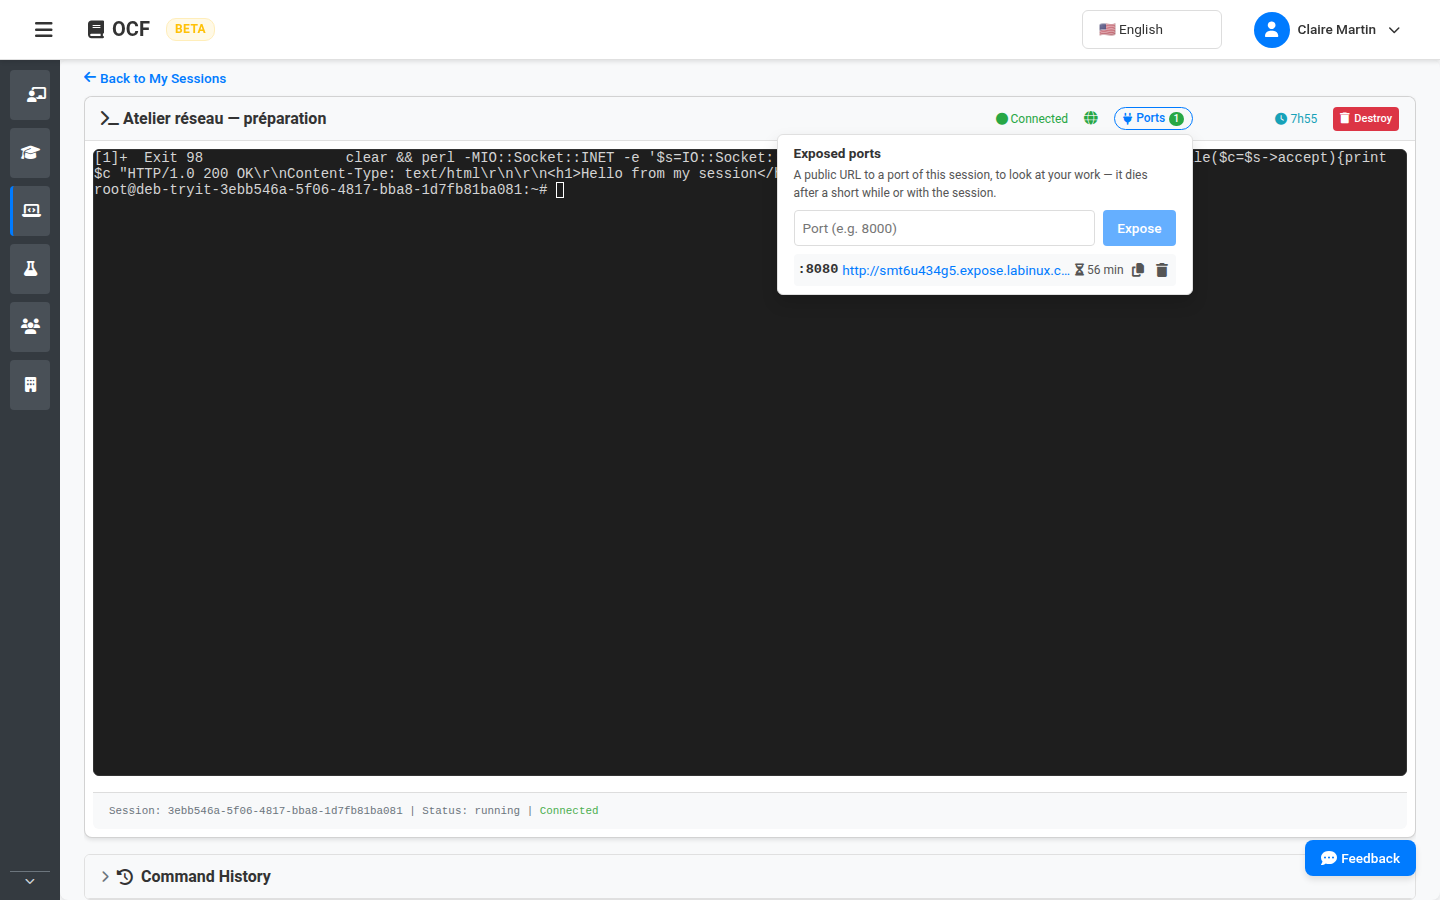
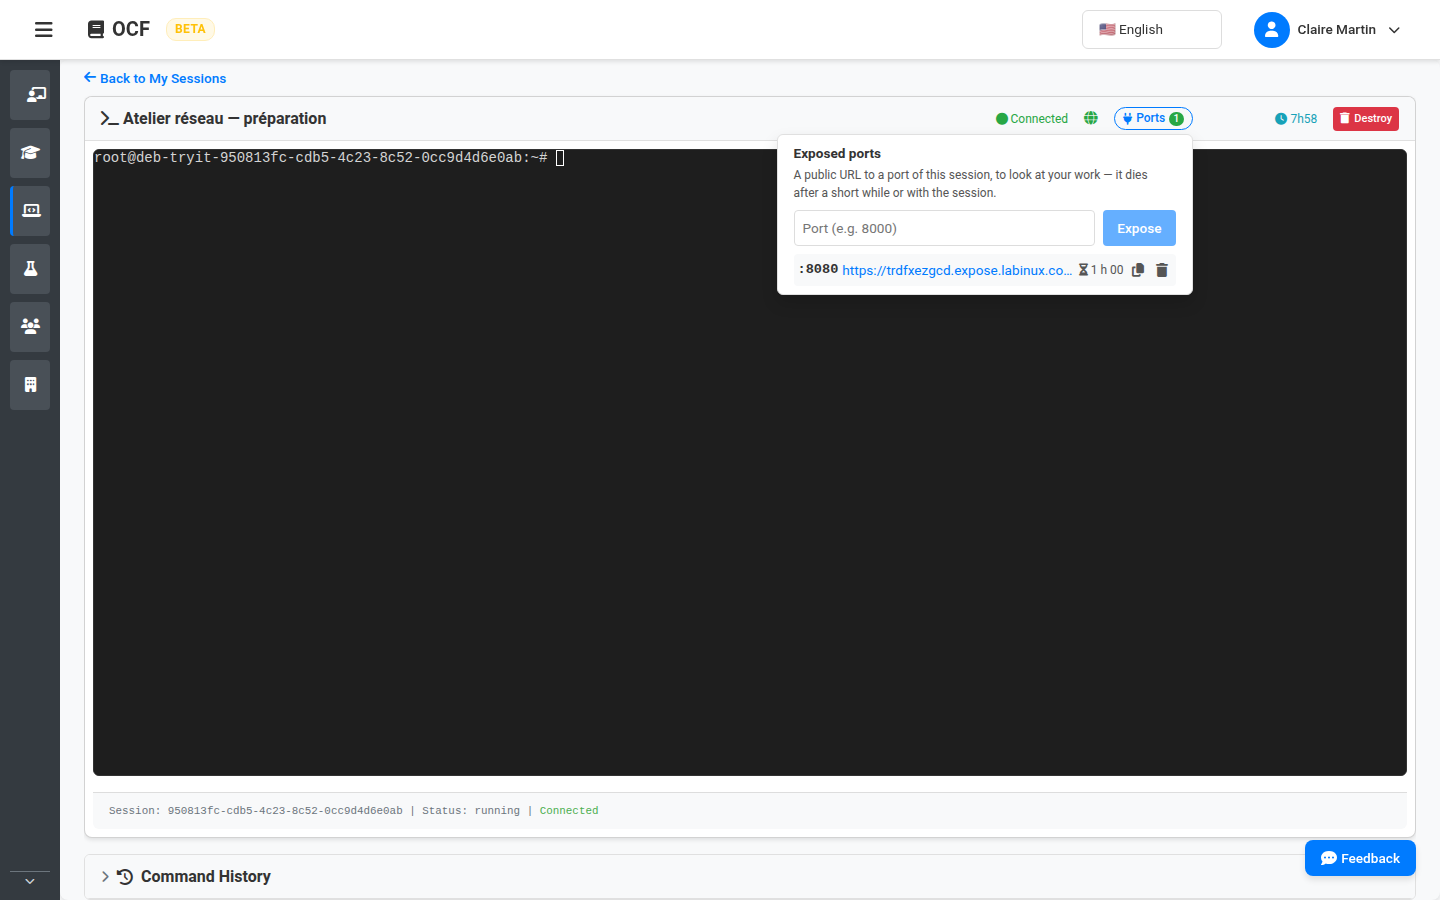
docs: retake the class analytics and exposed-port screens

diff --git a/e2e/docs-screenshots.spec.ts b/e2e/docs-screenshots.spec.ts
@@ -128,7 +128,20 @@ const SCREENS: Screen[] = [
   { name: 'class-wall', path: (f) => `/classes/${f.classId}/live?view=wall`, as: 'trainer', settle: 4_000, fullPage: true },
   { name: 'class-members', path: (f) => `/classes/${f.classId}/members`, as: 'trainer' },
   { name: 'class-scenarios', path: (f) => `/classes/${f.classId}/scenarios`, as: 'trainer' },
-  { name: 'class-analytics', path: (f) => `/classes/${f.classId}/analytics`, as: 'trainer' },
+  {
+    name: 'class-analytics',
+    path: (f) => `/classes/${f.classId}/analytics`,
+    as: 'trainer',
+    settle: 2_500,
+    // The per-scenario analytics calls occasionally fail on a busy dev stack; the page offers a retry.
+    prepare: async (page) => {
+      const retry = page.getByRole('button', { name: /réessayer|retry/i });
+      if (await retry.isVisible().catch(() => false)) {
+        await retry.click();
+        await page.waitForTimeout(2_500);
+      }
+    },
+  },
   { name: 'class-settings', path: (f) => `/classes/${f.classId}/settings`, as: 'trainer' },
   { name: 'organizations', path: '/organizations', as: 'trainer' },
   { name: 'organization-detail', path: (f) => `/organizations/${f.orgId}`, as: 'trainer', fullPage: true },
